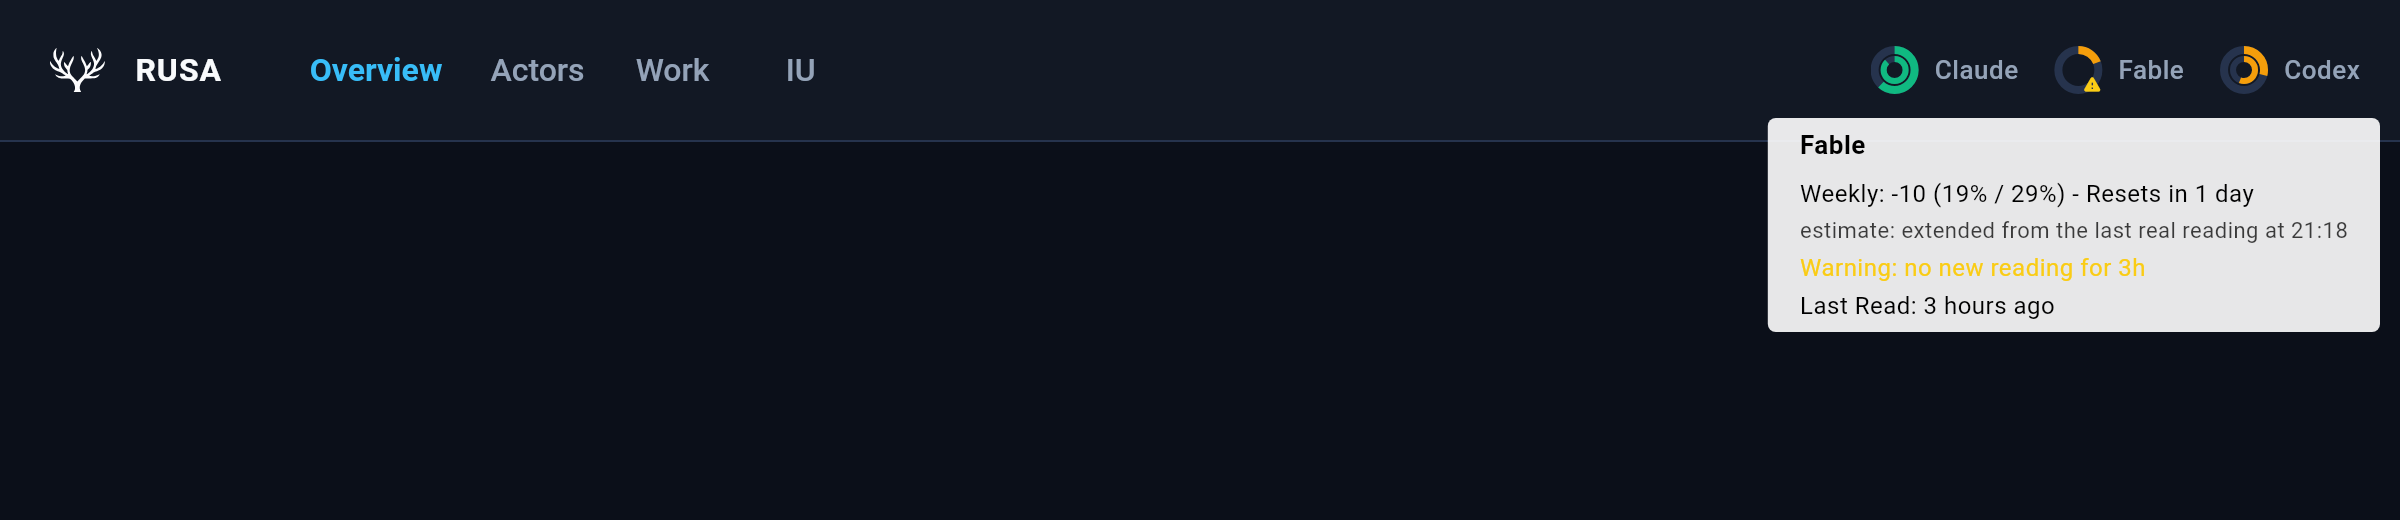
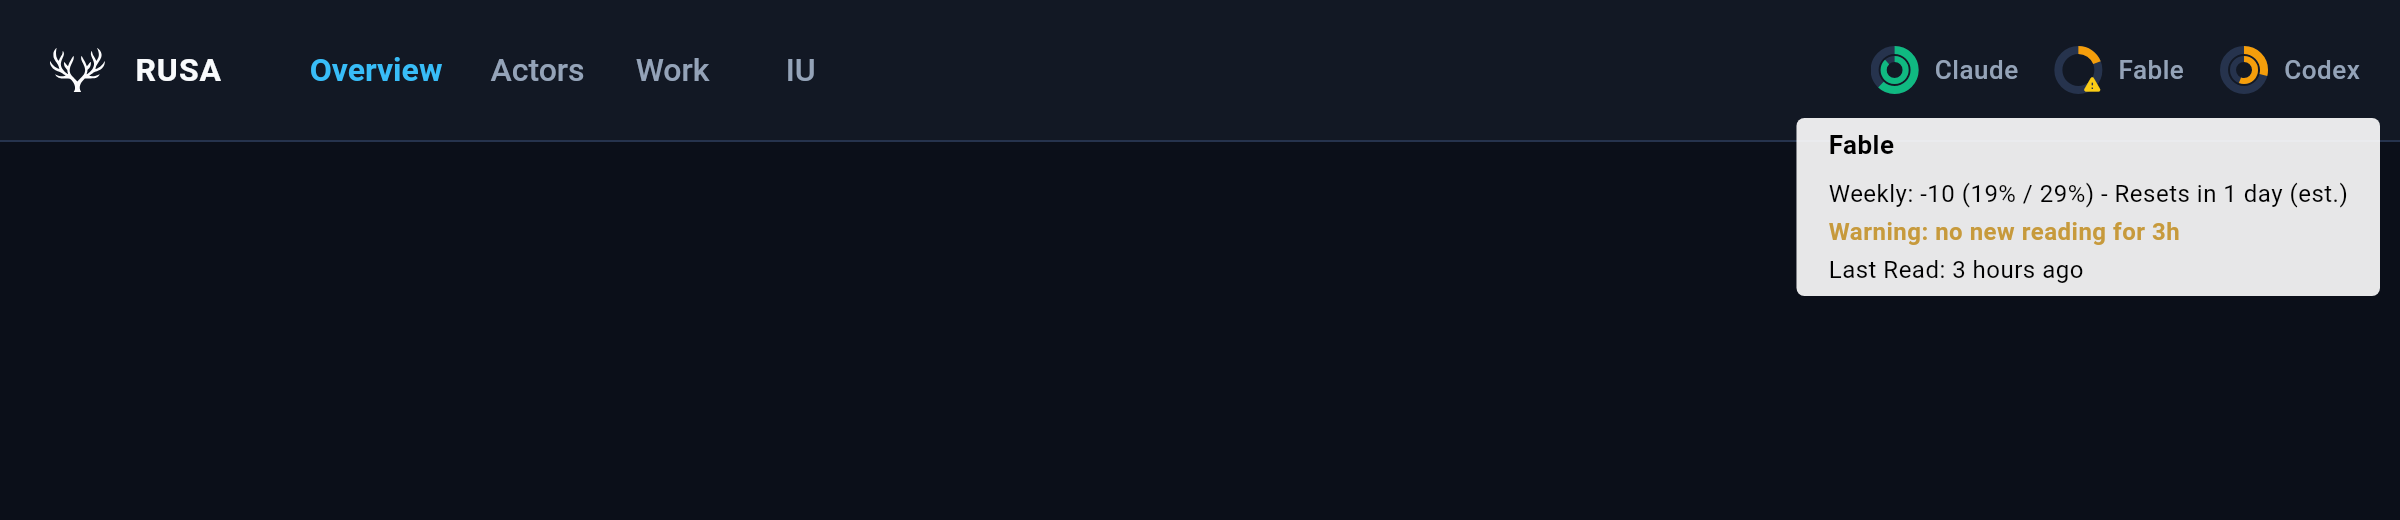
fix(dashboard): refine quota tooltip estimates

Changed region(s): [[0.7188, 0.2154, 1.0, 0.6462]]

diff --git a/packages/rusa/flutter_dashboard/test/fable_quota_ring_test.dart b/packages/rusa/flutter_dashboard/test/fable_quota_ring_test.dart
@@ -2,7 +2,6 @@ import 'dart:convert';
 
 import 'package:flutter/material.dart';
 import 'package:flutter_test/flutter_test.dart';
-import 'package:intl/intl.dart';
 import 'package:rusa_dashboard/models.dart';
 import 'package:rusa_dashboard/store.dart';
 import 'package:rusa_dashboard/theme.dart';
@@ -461,7 +460,6 @@ void main() {
     testWidgets('renders the estimate and says it is one', (tester) async {
       await tester.runAsync(() async {
         final now = DateTime.now();
-        final lastReading = now.subtract(const Duration(minutes: 40));
         final store = await pumpFable(
           tester,
           _fableWeekly(
@@ -474,14 +472,9 @@ void main() {
 
         expect(_outerRingValue(tester, 'Fable'), closeTo(0.625, 1e-9));
         final tip = _tooltipOf(tester, 'Fable');
-        expect(
-          tip,
-          contains(
-            'estimate: extended from the last real reading at '
-            '${DateFormat('HH:mm').format(lastReading)}',
-          ),
-        );
-        expect(_tooltipOf(tester, 'Claude'), isNot(contains('estimate')));
+        expect(tip, contains('(est.)'));
+        expect(tip, isNot(contains('estimate:')));
+        expect(_tooltipOf(tester, 'Claude'), isNot(contains('(est.)')));
         expect(_staleWarning('Fable'), findsNothing);
         await store.dispose();
       });
@@ -510,7 +503,7 @@ void main() {
         expect(_outerRingValue(tester, 'Fable'), closeTo(0.95, 1e-9));
         final tip = _tooltipOf(tester, 'Fable');
         expect(tip, contains('Weekly: 95% remaining'));
-        expect(tip, contains('estimate: extended from the last real reading'));
+        expect(tip, contains('Weekly: 95% remaining (est.)'));
         await store.dispose();
       });
     });

diff --git a/packages/rusa/flutter_dashboard/test/quota_tooltip_test.dart b/packages/rusa/flutter_dashboard/test/quota_tooltip_test.dart
@@ -506,7 +506,7 @@ void main() {
       expect(tooltip.toPlainText(), isNot(contains('configured maximum')));
     });
 
-    testWidgets('renders an estimate note when a window is estimated (#759)', (
+    testWidgets('marks an estimated window on its reading line (#759)', (
       tester,
     ) async {
       final lastRead = now.subtract(const Duration(minutes: 45));
@@ -533,13 +533,13 @@ void main() {
       await tester.pumpWidget(MaterialApp(home: Scaffold(body: tooltip)));
 
       expect(
-        find.textContaining('estimate: extended from the last real reading'),
+        find.textContaining(
+          'Weekly: +17 (60% / 43%) - Resets in 3 days (est.)',
+        ),
         findsOneWidget,
       );
-      expect(
-        tooltip.toPlainText(),
-        contains('estimate: extended from the last real reading'),
-      );
+      expect(tooltip.toPlainText(), contains('(est.)'));
+      expect(tooltip.toPlainText(), isNot(contains('estimate:')));
     });
 
     testWidgets('renders a 2h stale warning when reading is older than 2 hours (#759)', (
@@ -572,6 +572,11 @@ void main() {
         find.text('Warning: no new reading for 3h'),
         findsOneWidget,
       );
+      final warning = tester.widget<Text>(
+        find.text('Warning: no new reading for 3h'),
+      );
+      expect(warning.style?.fontWeight, FontWeight.w700);
+      expect(warning.style?.color, const Color(0xFFC79A3C));
       expect(
         tooltip.toPlainText(),
         contains('Warning: no new reading for 3h'),
@@ -609,4 +614,3 @@ void main() {
     });
   });
 }
-

diff --git a/packages/rusa/flutter_dashboard/lib/widgets/quota_tooltip.dart b/packages/rusa/flutter_dashboard/lib/widgets/quota_tooltip.dart
@@ -257,14 +257,10 @@ class QuotaTooltip extends StatelessWidget {
         row = '$label: $quotaRemaining% remaining';
       }
 
-      rows.add(row);
       if (window.estimated) {
-        final scraped = DateTime.tryParse(window.scrapedAt ?? '');
-        final at = scraped == null
-            ? ''
-            : ' at ${DateFormat('HH:mm').format(scraped.toLocal())}';
-        rows.add('estimate: extended from the last real reading$at');
+        row = '$row (est.)';
       }
+      rows.add(row);
     }
     return rows;
   }
@@ -380,7 +376,8 @@ class QuotaTooltip extends StatelessWidget {
               warningText,
               style: const TextStyle(
                 fontSize: 12,
-                color: MeshColors.quotaStaleWarning,
+                fontWeight: FontWeight.w700,
+                color: MeshColors.quotaTooltipStaleWarning,
               ),
             ),
             const SizedBox(height: 2),

diff --git a/packages/rusa/flutter_dashboard/lib/theme.dart b/packages/rusa/flutter_dashboard/lib/theme.dart
@@ -39,6 +39,10 @@ abstract final class MeshColors {
   /// The quota ring's no-recent-reading triangle (#759): a true yellow, kept
   /// apart from the amber [statusIdle] a ring on pace is drawn in.
   static const quotaStaleWarning = Color(0xFFFACC15);
+
+  /// The matching tooltip warning: a darker caramel so the text remains
+  /// legible against the tooltip surface.
+  static const quotaTooltipStaleWarning = Color(0xFFC79A3C);
 }
 
 /// Per-kind chip colors, lifted verbatim from the mockup's `.inline-kind-chip`

diff --git a/packages/rusa/flutter_dashboard/test/screenshots_test.dart b/packages/rusa/flutter_dashboard/test/screenshots_test.dart
@@ -527,10 +527,7 @@ void main() {
             .ensureTooltipVisible();
         await tester.pump();
         await tester.pump(const Duration(milliseconds: 250));
-        expect(
-          find.textContaining('extended from the last real reading'),
-          findsOneWidget,
-        );
+        expect(find.textContaining('(est.)'), findsOneWidget);
         await captureBoundary(
           key,
           '$_outDir/header_quota_rollover_tooltip.png',
